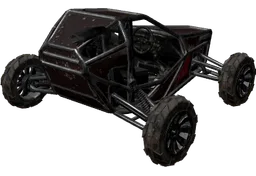
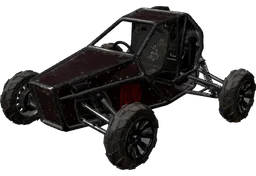
World Drive: the dune buggy faces the way it drives
It was imported back to front: its seat, steering wheel, nose and lamps
were at +z and its engine and exhaust at -z, so it drove tail first
(the chase camera saw its nose, the driver's seat looked at the seat
back) and steered with its rear wheels. Turned round 180° about y:

- dune-buggy.glb: only its JSON chunk changed (the BIN chunk is
  byte-identical): each part's node turned 180° about y about the car's
  middle, the wheel nodes and meshes renamed front for rear and left for
  right, the new front pair steering. The driven car, the Garage's
  turntable, others' ghosts and the picture all load this file.
- cars.json: its wheels to match (the narrower axle, at z -1.17, is now
  the front and steers); size and dimensions unchanged.
- cars.js: its driver's seat is one in the middle, under the cage's
  roof, so the camera is there (right 0, 0.38 m behind the middle,
  1.38 m up), looking over the steering wheel at the road.
- Its picture drawn again, from ahead and to its left like the others.
- docs: check a new car's way round by its seat, wheel, lamps and
  exhaust, and how the buggy was turned.

Claude-Session: https://claude.ai/code/session_01Bv8md4f94Xar5sG4Ern4QB

diff --git a/src/drive-app/cars.js b/src/drive-app/cars.js
@@ -55,7 +55,9 @@ export const CARS = [
 		id: 'dune-buggy', name: 'Dune buggy', blurb: 'Light, bouncy, big air', pro: true,
 		drive: {
 			topSpeed: 145, accel: 11, brake: 14, reverse: 30,
-			cab: { ahead: 0.25, right: - 0.35, up: 1.2 },
+			// Its one seat is in the middle, under the cage's roof: a little behind the car's middle, as
+			// its nose is long and its engine short.
+			cab: { ahead: - 0.38, right: 0, up: 1.38 },
 			// Light on long springs: loose on the road, thrown higher, slower to fall, landing well off
 			// upright and bouncing as it does.
 			handling: { grip: 9, slip: 2.2, driftYaw: [ 52, 124 ], turn: [ 160, 66 ], lock: 36, gravity: 0.85, launch: 1.15, landTilt: 50, rebound: 0.2 },

diff --git a/docs/world-drive.md b/docs/world-drive.md
@@ -1256,6 +1256,13 @@ its name, blurb, tuning and whether it needs the pass in `cars.js` and its id in
 The muscle car, say, was `--id muscle-car --length 4.7 --front=+z --paint Material --rims Material.001
 --lamps Material.004`.
 
+Look at a new car in the Garage and from its driver's seat (C) to check which way it faces: by its
+seat, steering wheel, lamps and exhaust. The dune buggy was first imported back to front, so it
+drove tail first (its wider axle is the rear one, not the front). It was turned round in its file
+rather than imported again: each part's node turned 180° about y, the wheels renamed front for rear
+and left for right (the new front pair steering), `cars.json`'s wheels to match, and its picture
+drawn again. Its one seat is in the middle, so its driver's-seat camera is too.
+
 `drive-car-thumbs.mjs` draws every picture the same way (World Drive's dev server in Chromium, the
 car from ahead and to its left, on nothing), whatever Sketchfab's own pictures were.
 
